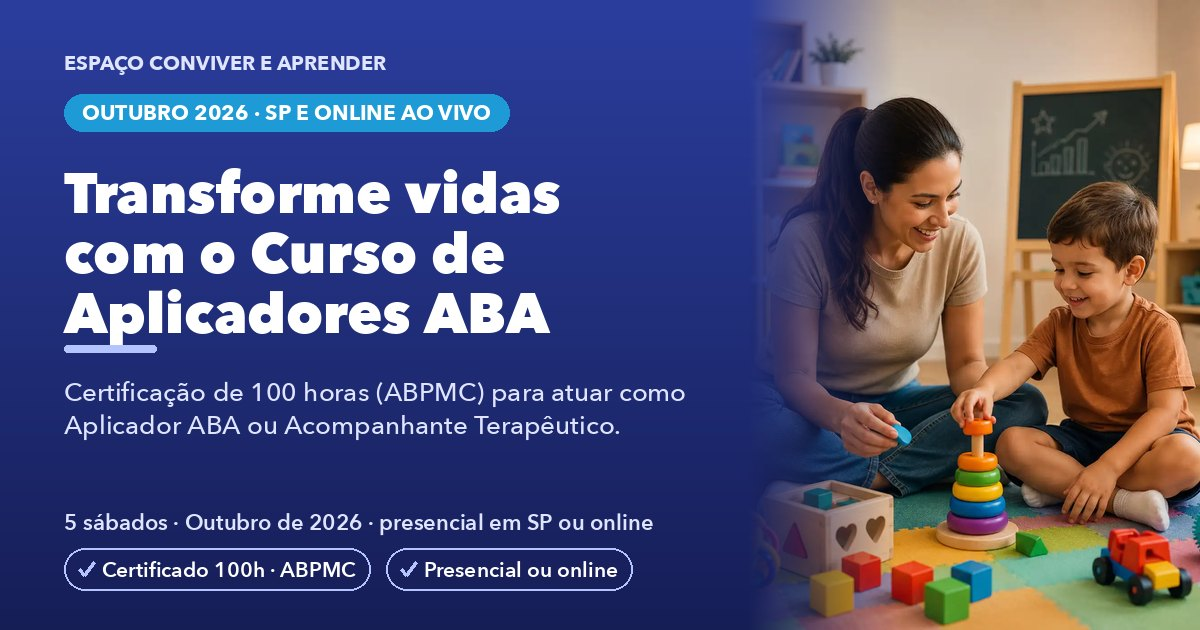
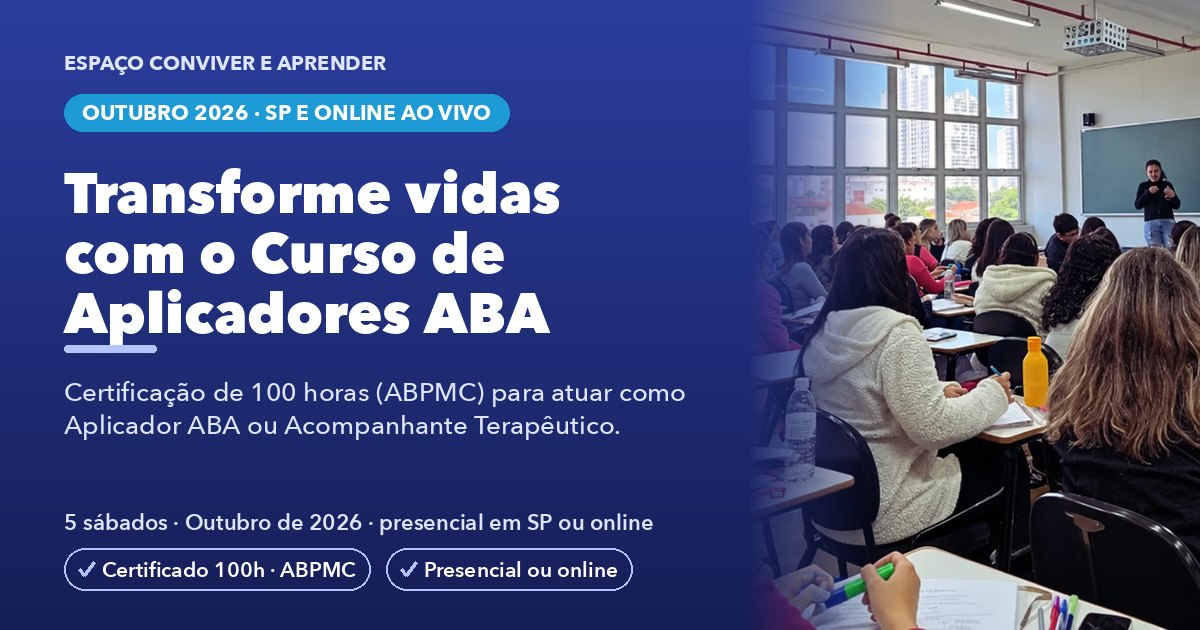
feat: foto real da turma na hero + card OG (Aplicadores ABA)

diff --git a/index.html b/index.html
@@ -508,7 +508,7 @@ footer a{color:var(--coral-2)}
         <a class="btn btn-wa btn-lg" href="https://api.whatsapp.com/send?phone=5511948774794&text=Ol%C3%A1,%20vim%20do%20site%20e%20quero%20mais%20informa%C3%A7%C3%B5es%20sobre%20o%20Curso%20de%20Aplicadores%20ABA%20%28100h%29" target="_blank" rel="noopener"><svg viewBox="0 0 24 24" fill="currentColor"><path d="M17.5 14.4c-.3-.1-1.8-.9-2-1-.3-.1-.5-.1-.7.1-.2.3-.7 1-.9 1.1-.2.2-.3.2-.6.1-1.6-.8-2.6-1.4-3.7-3.2-.3-.5.3-.5.8-1.5.1-.2 0-.4 0-.5 0-.1-.7-1.6-.9-2.2-.2-.6-.5-.5-.7-.5h-.5c-.2 0-.5.1-.8.4-.3.3-1 1-1 2.5s1.1 2.9 1.2 3.1c.2.2 2.1 3.3 5.2 4.6 2 .8 2.7.9 3.7.8.6-.1 1.8-.8 2.1-1.5.3-.7.3-1.4.2-1.5z"/></svg>Falar no WhatsApp</a>
       </div>
       <div class="hero-photo-mobile">
-        <img src="assets/hero-crianca.webp?v=1" alt="Formação de Aplicadores ABA" width="1122" height="1402">
+        <img src="assets/hero-aba.webp?v=1" alt="Turma do Curso de Aplicadores ABA em aula presencial em São Paulo" width="1254" height="1254">
         <span class="hv-seal"><small>CERT.</small><b>100h</b><small>ABPMC</small></span>
         <div class="hv-cap">
           <span>Com <b>Daniela Alonso</b>, Diretora · Especialista em ABA (UFSCar)</span>
@@ -526,7 +526,7 @@ footer a{color:var(--coral-2)}
 
     <div class="hv">
       <div class="hv-frame">
-        <img src="assets/hero-crianca.webp?v=1" alt="Formação de Aplicadores ABA" width="1122" height="1402" fetchpriority="high">
+        <img src="assets/hero-aba.webp?v=1" alt="Turma do Curso de Aplicadores ABA em aula presencial em São Paulo" width="1254" height="1254" fetchpriority="high" style="object-position:center 42%">
         <span class="hv-seal"><small>CERT.</small><b>100h</b><small>ABPMC</small></span>
         <div class="hv-cap">
           <span>Com <b>Daniela Alonso</b>, Diretora · Especialista em ABA</span>
